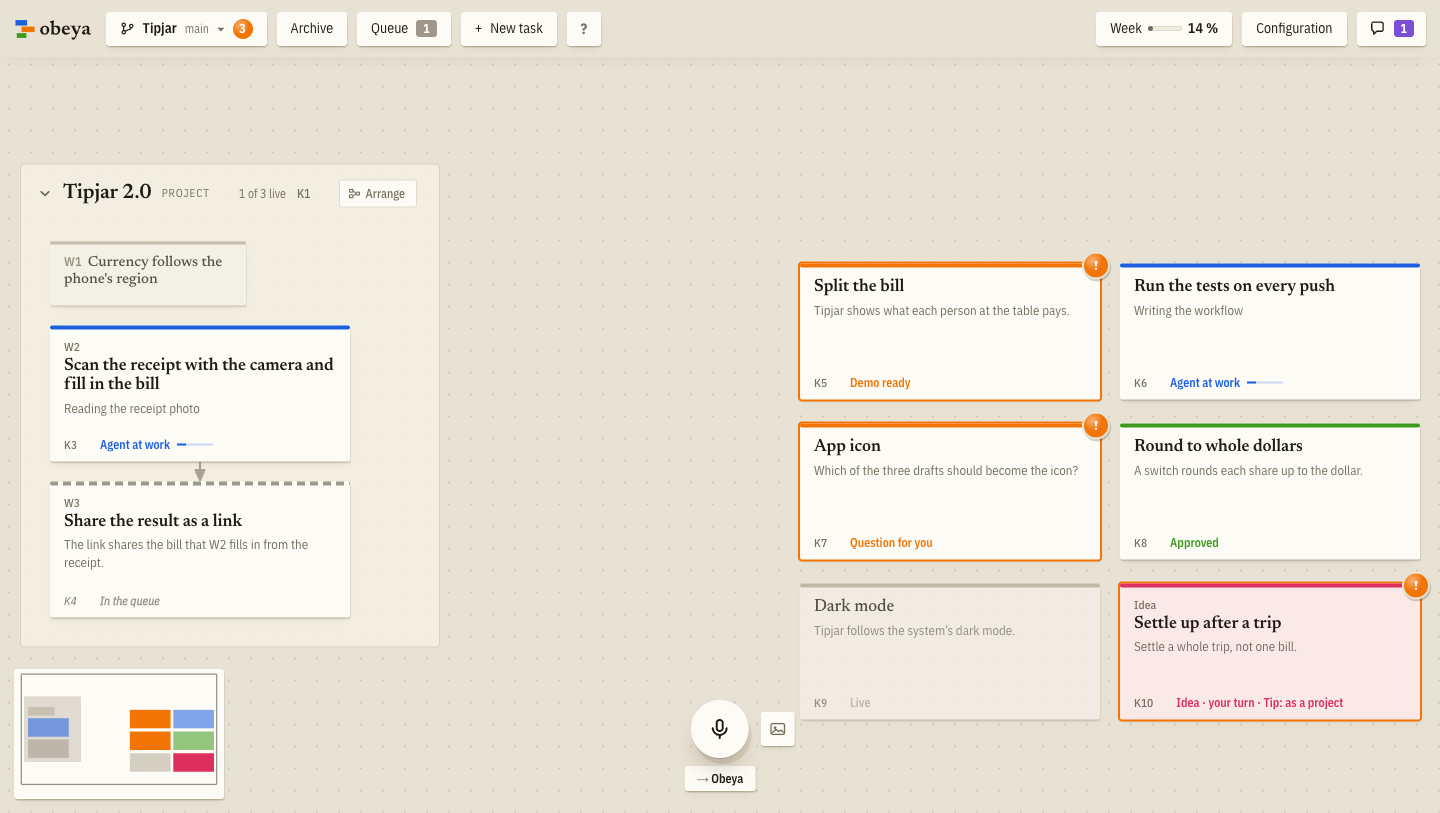
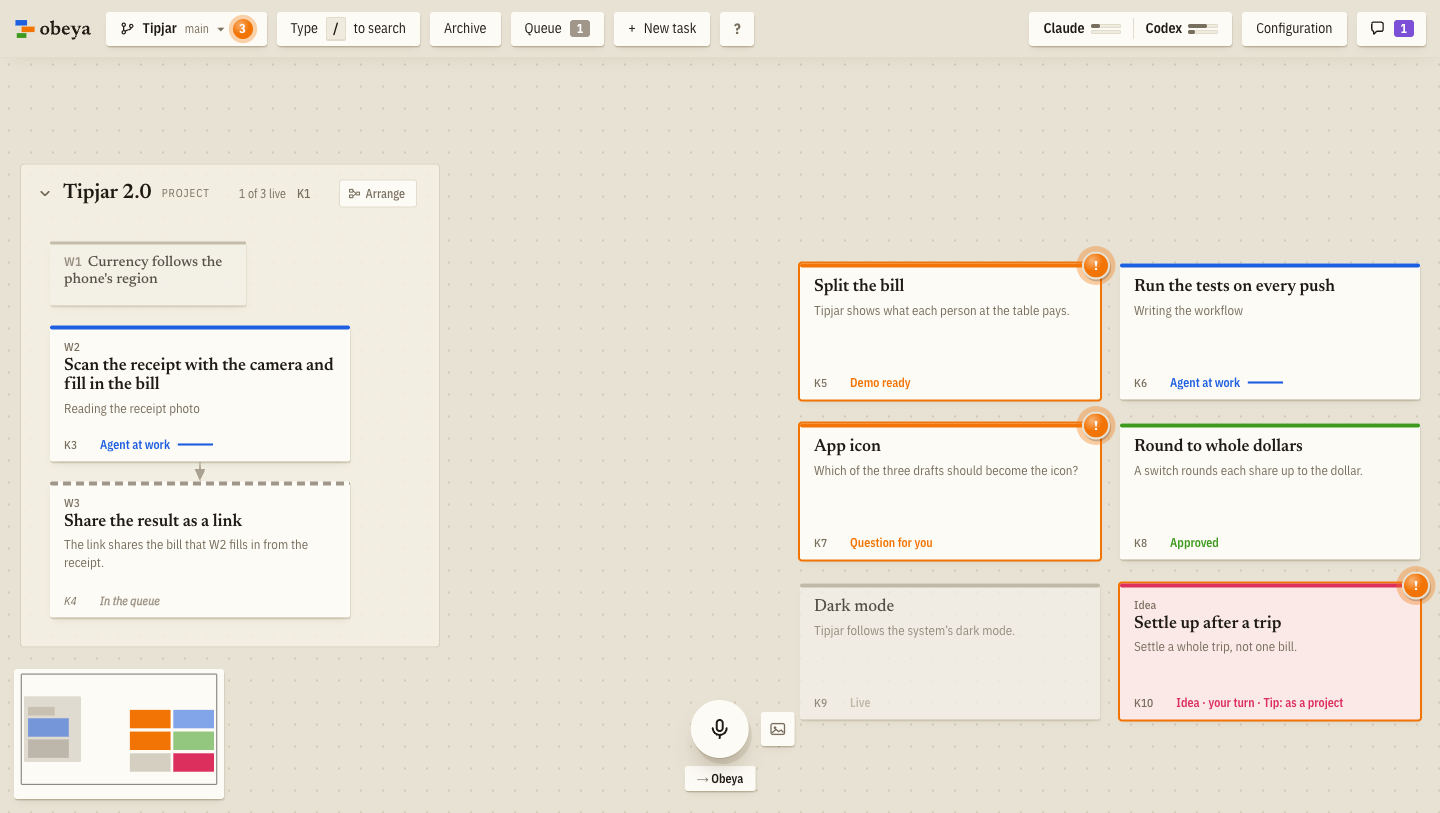
Obeya 0.12.0
The version, with the hero video's poster and the site's screenshots taken
again from it. The README names what 0.12.0 adds for a newcomer: the agent
chosen per card in the menu beside its start button, the card search on /,
the waiting count on the app's icon, and silent demos with subtitles in any
number of languages. site-shots takes --at, the moment of the demo its
pictures show, for a demo whose second chapter shows the change badly.

Demo-Video: https://demos.obeya.si/release-74fbe8/

diff --git a/scripts/site-shots.ts b/scripts/site-shots.ts
@@ -3,12 +3,13 @@
 // a Tipjar change on the card whose demo the page shows, so that the picture is of a demo and not of
 // Obeya itself. The same wall on a phone (`phone.png`, `phone-demo.png`) shows the phone view.
 //
-//   bun scripts/site-shots.ts [--demo <dir>] [--keep | --stage-only]
+//   bun scripts/site-shots.ts [--demo <dir>] [--at <seconds>] [--keep | --stage-only]
 //
 // --demo names a Tipjar demo to put on that card (a directory with demo.mp4 and poster.jpg); without
 // it the agent's first demo of splitting the bill from the newest render of the hero video is taken
 // (tipjar-split-the-bill* in the demo directory; the render leaves a second, shorter one on the owner's comments a
-// few minutes later); its chapters come from its chapters.vtt. The scratch Obeya runs on port 4740 and is stopped
+// few minutes later); its chapters come from its chapters.vtt. --at names the moment of the demo the
+// pictures show, where the one picked by its chapters shows the change badly. The scratch Obeya runs on port 4740 and is stopped
 // at the end; --keep leaves it running for a look, --stage-only stages it and takes nothing. Needs
 // Google Chrome.
 
@@ -129,13 +130,13 @@ function card(id: string | undefined) {
   return `[data-id="${id}"]`;
 }
 
-/** Pauses the demo video in its second chapter (the change at work). */
+/** Pauses the demo video at `--at`, else in its second chapter (the change at work). */
 async function still(page: Page, video: string) {
   await page.locator(video).evaluate(async (v: HTMLVideoElement, at: number) => {
     v.pause();
     v.currentTime = at;
     await new Promise((r) => v.addEventListener('seeked', r, { once: true }));
-  }, chapters[1] ? chapters[1][0] + ((chapters[2]?.[0] ?? chapters[1][0] + 4) - chapters[1][0]) * 0.8 : 3);
+  }, arg('--at') ? Number(arg('--at')) : chapters[1] ? chapters[1][0] + ((chapters[2]?.[0] ?? chapters[1][0] + 4) - chapters[1][0]) * 0.8 : 3);
 }
 
 async function shots(page: Page, cards: Record<string, string>) {

diff --git a/README.md b/README.md
@@ -26,8 +26,8 @@ See every feature in action: each change to Obeya comes with the demo its agent 
 
 Each card gets its own agent (Claude Code or Codex) in its own clone or worktree of your repository, on
 this machine or on another one reached over SSH. The agent asks on the card when it needs a
-decision and hands over with a demo: a narrated screen recording of the change, or a page to look
-at when the result is a layout or variants side by side. You approve it or say what to change, also
+decision and hands over with a demo: a narrated screen recording of the change (or a silent one
+with subtitles, in as many languages as you like), or a page to look at when the result is a layout or variants side by side. You approve it or say what to change, also
 about one moment of the video: what you type or say while it stands there goes to the agent with
 that frame and the narration's sentence. Approved work lands on `main` or goes out as a pull
 request on GitHub (GitHub Enterprise too), Forgejo or Gitea (Codeberg, say) that Obeya carries to
@@ -52,7 +52,7 @@ several, and one Obeya runs them all. A card's agent, or all of a canvas's from 
 can be paused and resumed: each finishes its step first. Typing "/" in a card's field offers the
 skills its agent knows. The bar shows how much of your plans' session and week is used: Claude's,
 ChatGPT's for Codex, or both. Which group of agents runs on which harness and model you choose in
-"Agents and models".
+"Agents and models", and a single card's in the menu beside its start button.
 
 ![An Obeya canvas: a project with its workstreams, one at work and one in the queue; beside it a demo and a question waiting for you, a task at work, an approved and a live one, and an idea](site/img/canvas.png)
 
@@ -97,9 +97,9 @@ the agents have paused, then the app restarts with it (a .deb is updated by inst
 one).
 
 On the canvas, double-click to write a task, then start its agent ("Start agent"). The card
-shows what the agent is doing; when it waits for you (counted in orange at the bar's left, listed under "Needs you"), open it to
+shows what the agent is doing; when it waits for you (counted in orange at the bar's left and on the app's icon, listed under "Needs you"), open it to
 answer a question or watch the demo and approve it ("Approve"). Hold Space to say what to do
-instead of typing; `?` lists every key.
+instead of typing; `/` searches the cards, on the canvas and in the archive; `?` lists every key.
 
 ### Connecting a phone
 

diff --git a/docs/release.md b/docs/release.md
@@ -37,7 +37,11 @@ machine's active account may lack the admin rights a workflow run or a rerun nee
    Then from the same render, in the release's checkout:
    - the site's screenshots, `bun scripts/site-shots.ts`, with the first Tipjar demo the render's
      agent left (`<demos>/tipjar-split-the-bill*`; the newest is its shorter second demo, on the
-     comments, which the script passes over), into `site/img/`: the
+     comments, which the script passes over; where the agent rendered that second demo over the
+     first, Obeya's copy of the first is in the render's scratch home,
+     `/tmp/obeya-scratch-4730/home/kept-demos/<card>/<handover>/`, whose `index.html` holds the
+     chapter times its copy lacks a `chapters.vtt` for: `--demo` names it, `--at` a moment of it
+     where the one its chapters pick shows the change badly), into `site/img/`: the
      desktop ones and the two of the phone view (`phone.png`, `phone-demo.png`), which the README
      shows too (`canvas.png` and the phone's);
    - the video's poster, `node scripts/hero-video/publish.ts --poster-only`
